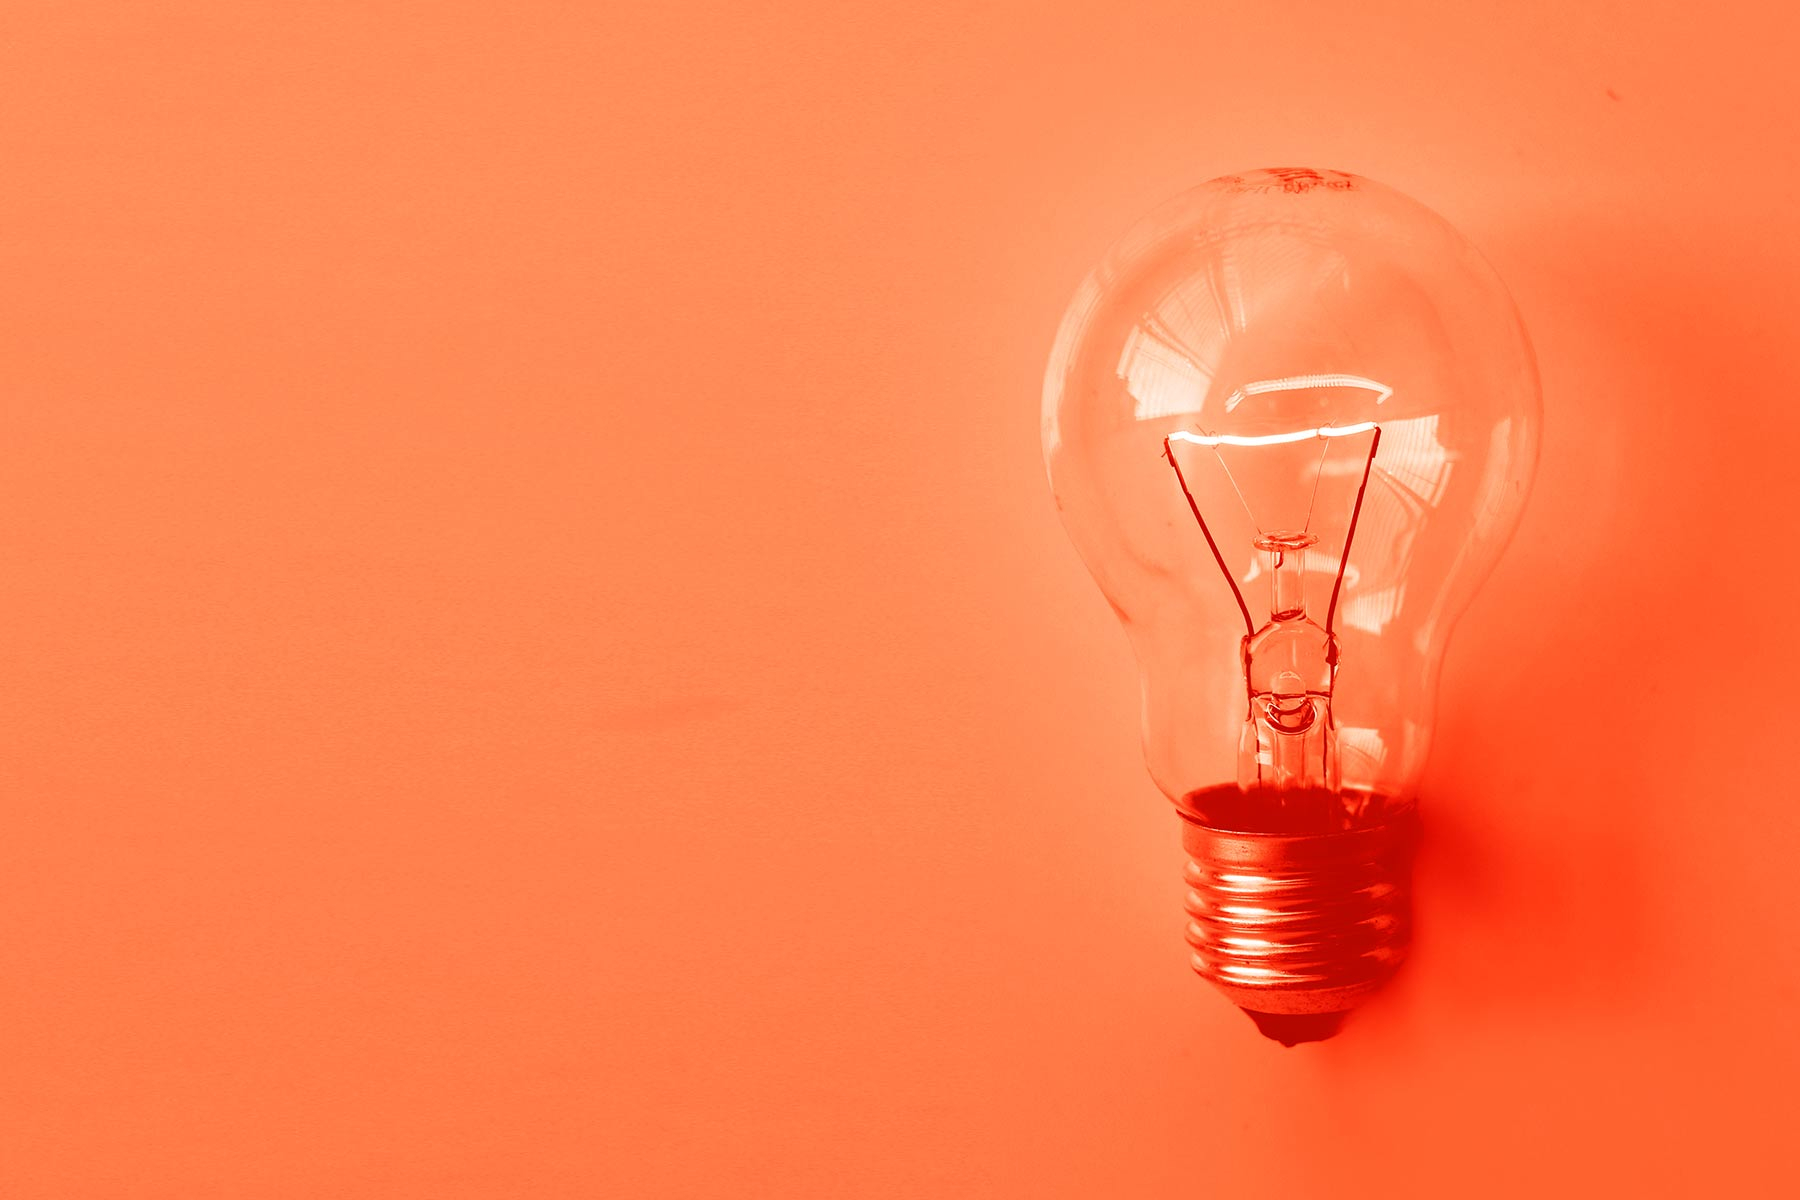
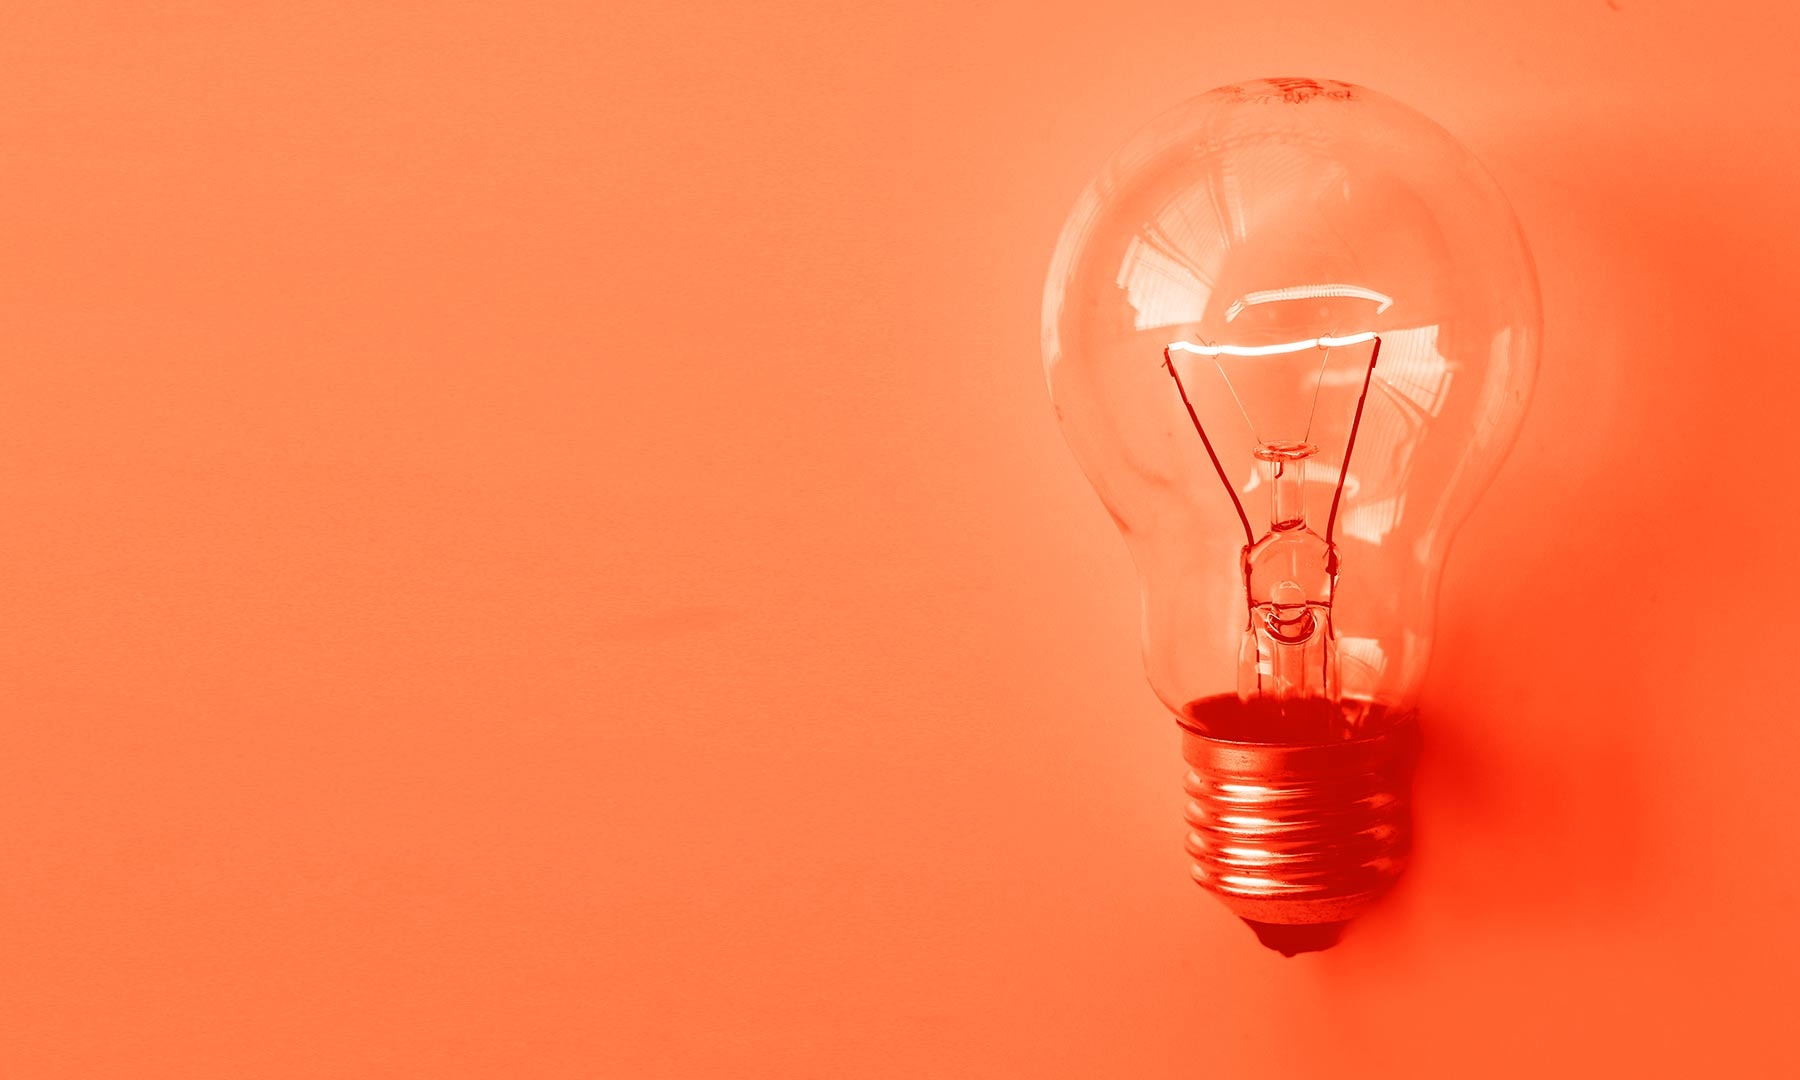
started hero and video content html and css

Changed region(s): [[0.56, 0.1222, 0.84, 0.8861], [0.6844, 0.0611, 0.7467, 0.0917]]

diff --git a/main.css b/main.css
@@ -1,25 +1,185 @@
 .navbar-dark .navbar-nav .nav-link {
     font-family: 'Work Sans', sans-serif;
-    font-weight:500;
+    font-weight:400;
 }
 
+/*hero*/
 
-.jumbotron {
+.jumbotron{
+  height:100vh;
+background-image: url('images/hero.jpg');
+background-size: cover;
+background-repeat: no-repeat;
+border-radius: 0rem
 
-        height:100vh;
-    
 }
-
-
 
 .align-items-center_1{
     display: flex;
     align-items: center;
 }
 
-.jumbotron{
-background-image: url('images/hero_2.jpg');
-background-size: cover;
-background-repeat: no-repeat;
 
+.display-1{
+	color:white;
+	font-size:6.5em;
+	font-family: 'Work Sans', sans-serif;
+    font-weight:700;
+    line-height: .95em;
+    text-shadow:  0px 0px 10px #d07a4b;
+}
+
+
+@media (max-width: 1300px) {
+
+.display-1{
+	font-size:5em;
+    line-height: .95em;
+   
+}
+
+}
+
+@media (max-width: 1100px) {
+
+.jumbotron{
+  height:100vh;
+background-image: url('images/hero_med.jpg');
+
+}
+
+
+}
+
+
+
+@media (max-width: 800px) {
+
+.display-1{
+	font-size:3.5em;
+	color:white;
+	font-family: 'Work Sans', sans-serif;
+    font-weight:700;
+    line-height: .95em;
+    text-shadow:  0px 0px 10px #d07a4b;
+}
+
+.jumbotron{
+  height:100vh;
+background-image: url('images/hero_sm.jpg');
+
+}
+
+
+}
+
+@media (max-width: 400px) {
+
+.display-1{
+	font-size:2.5em;
+	color:white;
+	font-family: 'Work Sans', sans-serif;
+    font-weight:700;
+    line-height: .95em;
+    text-shadow:  0px 0px 10px #d07a4b;
+}
+
+}
+
+
+
+
+.animatable {
+  
+  /* initially hide animatable objects */
+  visibility: hidden;
+  
+  /* initially pause animatable objects their animations */
+  -webkit-animation-play-state: paused;   
+  -moz-animation-play-state: paused;     
+  -ms-animation-play-state: paused;
+  -o-animation-play-state: paused;   
+  animation-play-state: paused; 
+}
+
+/* show objects being animated */
+.animated {
+  visibility: visible;
+  
+  -webkit-animation-fill-mode: both;
+  -moz-animation-fill-mode: both;
+  -ms-animation-fill-mode: both;
+  -o-animation-fill-mode: both;
+  animation-fill-mode: both;
+  
+  -webkit-animation-duration: 1s;
+  -moz-animation-duration: 1s;
+  -ms-animation-duration: 1s;
+  -o-animation-duration: 1s;
+  animation-duration: 1s;
+
+  -webkit-animation-play-state: running;
+  -moz-animation-play-state: running;
+  -ms-animation-play-state: running;
+  -o-animation-play-state: running;
+  animation-play-state: running;
+}
+
+
+
+
+
+@-webkit-keyframes fadeInUp {
+    0% {
+        opacity: 0;
+        -webkit-transform: translateY(30px);
+    }   100% {
+        opacity: 1;
+        -webkit-transform: translateY(0);
+    }
+}
+
+@-moz-keyframes fadeInUp {
+    0% {
+        opacity: 0;
+        -moz-transform: translateY(30px);
+    }
+
+    100% {
+        opacity: 1;
+        -moz-transform: translateY(0);
+    }
+}
+
+@-o-keyframes fadeInUp {
+    0% {
+        opacity: 0;
+        -o-transform: translateY(30px);
+    }
+
+    100% {
+        opacity: 1;
+        -o-transform: translateY(0);
+    }
+}
+
+@keyframes fadeInUp {
+    0% {
+        opacity: 0;
+        transform: translateY(30px);
+    }
+
+    100% {
+        opacity: 1;
+        transform: translateY(0);
+    }
+}
+
+
+
+.animated.fadeInUp {
+    -webkit-animation-name: fadeInUp;
+    -moz-animation-name: fadeInUp;
+    -o-animation-name: fadeInUp;
+    animation-name: fadeInUp;
 }

diff --git a/index.html b/index.html
@@ -20,12 +20,14 @@
      <link rel="stylesheet" href="https://pro.fontawesome.com/releases/v5.11.1/css/all.css">
 
      <!-- google fonts -->
-     <link href="https://fonts.googleapis.com/css?family=Roboto:300,400,500|Work+Sans:500,700,900&display=swap"
+     <link href="https://fonts.googleapis.com/css?family=Roboto:300,400,500|Work+Sans:400,700,900&display=swap"
           rel="stylesheet">
 
      <!-- icons -->
      <link rel="apple-touch-icon" href="images/apple-touch-icon.png">
      <link rel="shortcut icon" type="image/png" href="images/favicon.png" />
+     <meta name="msapplication-wide310x150logo" content="images/tile-wide.png" />
+     <meta name="msapplication-square310x310logo" content="images/tile.png" />
 
 </head>
 
@@ -61,17 +63,24 @@
 
      <div class="jumbotron fluid-jumbotron align-items-center_1">
           
-          <div>
-          <h1 class="display-3">Hello, world!</h1>
+          <div class="container">
+     <div class="col-lg-6 col-sm-8 col-xs-12 animatable fadeInUp">
+          <h1 class="display-1">Iluminating Your Best Ideas</h1>
           <!-- <p class="lead">This is a simple hero unit, a simple jumbotron-style component for calling extra attention to featured content or information.</p>
           <hr class="my-4"> -->
           <p>It uses utility classes for typography and spacing to space content out within the larger container.</p>
           <a class="btn btn-primary btn-lg" href="#" role="button">Learn more</a>
-         </div>
+          </div>
+      </div>
         </div>
 
-     <div>      <p>It uses utility classes for typography and spacing to space content out within the larger container.</p>
-          <a class="btn btn-primary btn-lg" href="#" role="button">Learn more</a></div>
+
+
+        <div class="container embed-responsive embed-responsive-16by9 animatable fadeInUp">
+  <iframe class="embed-responsive-item" src="https://www.youtube.com/embed/xDl5m_mJrAM?rel=0" allowfullscreen></iframe>
+     </div>
+
+
      <!-- TODO: Populate this page with all the content you deem
              necessary to create a compelling product page! -->
 
@@ -92,6 +101,8 @@
      <!-- TODO: Create a call to action link to get users to sign up for the
              service. -->
 
+          
+
      <script src="https://code.jquery.com/jquery-3.3.1.slim.min.js"
           integrity="sha384-q8i/X+965DzO0rT7abK41JStQIAqVgRVzpbzo5smXKp4YfRvH+8abtTE1Pi6jizo" crossorigin="anonymous">
      </script>
@@ -101,6 +112,33 @@
      <script src="https://stackpath.bootstrapcdn.com/bootstrap/4.3.1/js/bootstrap.min.js"
           integrity="sha384-JjSmVgyd0p3pXB1rRibZUAYoIIy6OrQ6VrjIEaFf/nJGzIxFDsf4x0xIM+B07jRM" crossorigin="anonymous">
      </script>
+
+  <script>jQuery(function($) {
+  
+  var doAnimations = function() {
+    
+    var offset = $(window).scrollTop() + $(window).height(),
+        $animatables = $('.animatable');
+    
+    if ($animatables.length == 0) {
+      $(window).off('scroll', doAnimations);
+    }
+    
+    $animatables.each(function(i) {
+       var $animatable = $(this);
+      if (($animatable.offset().top + $animatable.height() - 20) < offset) {
+        $animatable.removeClass('animatable').addClass('animated');
+      }
+    });
+
+  };
+  
+  $(window).on('scroll', doAnimations);
+  $(window).trigger('scroll');
+
+});
+</script>  
+
 </body>
 
 </html>
